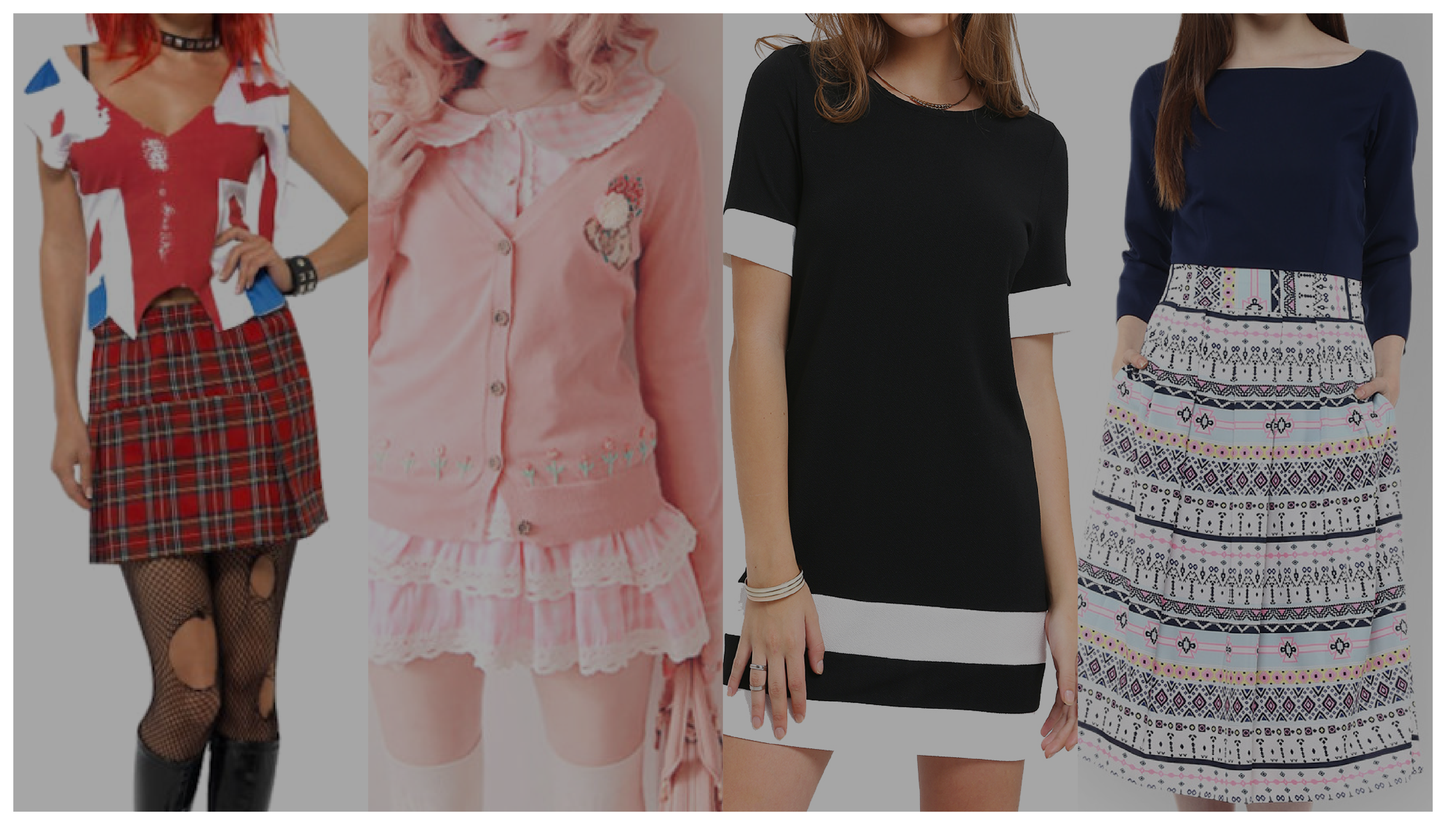
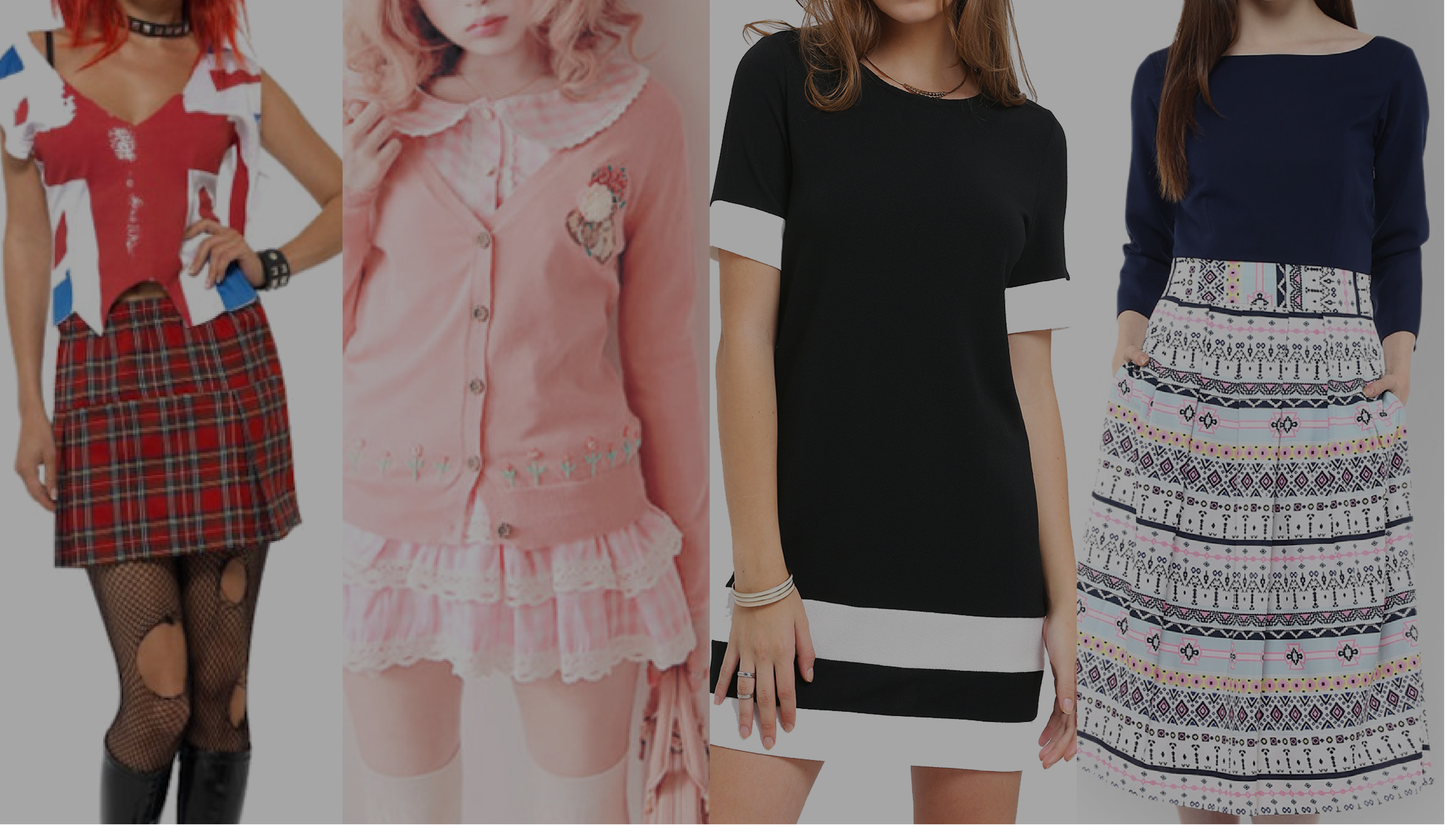
Add black layer with 35% opacity to pictures for the front page. Sidenav's position is fixed/sticky.

diff --git a/testinghtml/test_home.html b/testinghtml/test_home.html
@@ -46,7 +46,7 @@
           </ul>
         </aside>
       </div>
-
+<!-- Start copying here when done with html -->
       <div class="column is-11">
       <div class="hero is-fullheight  has-background">
         <img
@@ -73,7 +73,7 @@
         <img
           alt="switching clothes"
           class="hero-background "
-          src="../public/images/goth.svg"
+          src="../public/images/goth.png"
         />
         <div class="hero-body">
           <div class="container has-text-centered">
@@ -118,7 +118,7 @@
         <img
           alt="switching clothes"
           class="hero-background "
-          src="../public/images/kawaii.jpeg"
+          src="../public/images/last-home-page-swiftly-0.png"
         />
         <div class="hero-body">
           <div class="container has-text-centered"id="last-page-text">

diff --git a/public/styles/styles.css b/public/styles/styles.css
@@ -6,7 +6,9 @@
   margin: auto, 0;
   transform: rotate(-90deg);
   padding: 10px;
-  margin-top: 50px;
+  margin-top: 125px;
+  margin-left: -7px;
+  position: fixed;
 }
 #full-logo:hover {
   background-color: transparent;
@@ -40,9 +42,11 @@ body {
   margin-top: 20px;
 } */
 #logo-menu {
-  width: 150px;
+  width: 127px;
   margin-top: 50px;
   margin-right: 100px;
+  margin-left: -30px;
+  position: fixed;
 }
 
 .menu a {
@@ -52,7 +56,7 @@ body {
   font-size: 1.8em;
   margin: auto, 0;
   transform: rotate(-90deg);
-  padding: 33px;
+  padding: 25px;
   margin-top: 40px;
 }
 
@@ -64,6 +68,8 @@ body {
   background-clip: white;
 }
 .menu-list {
+  position: fixed;
+  margin-top: 220px;
 }
 .has-text-white {
   color: #f0f0f0;
